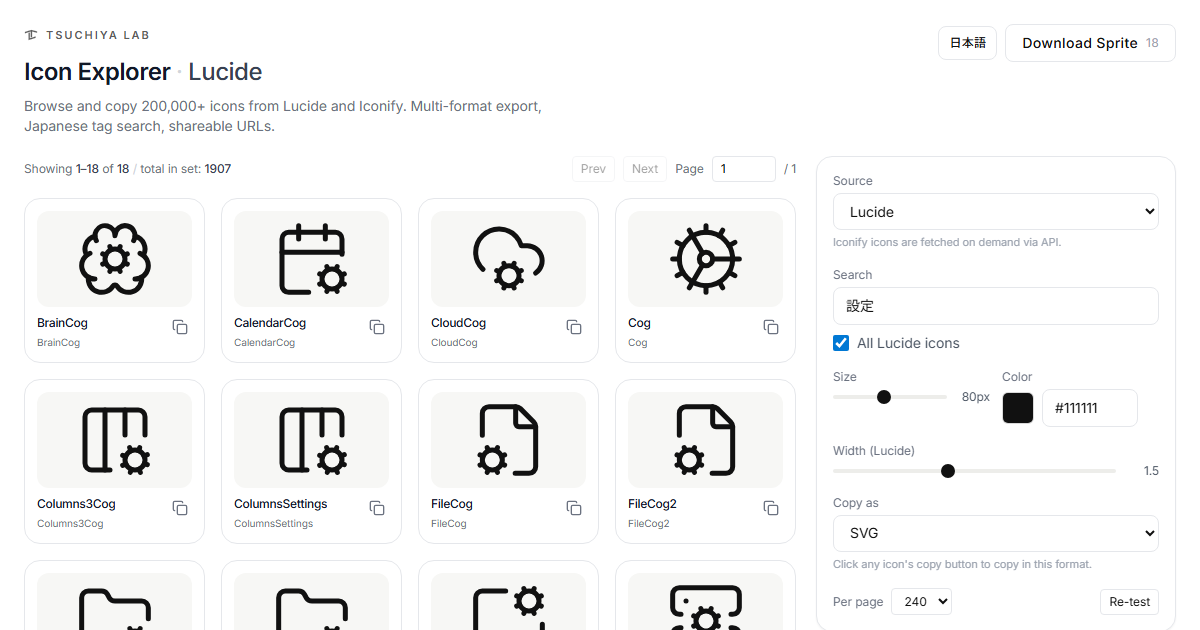
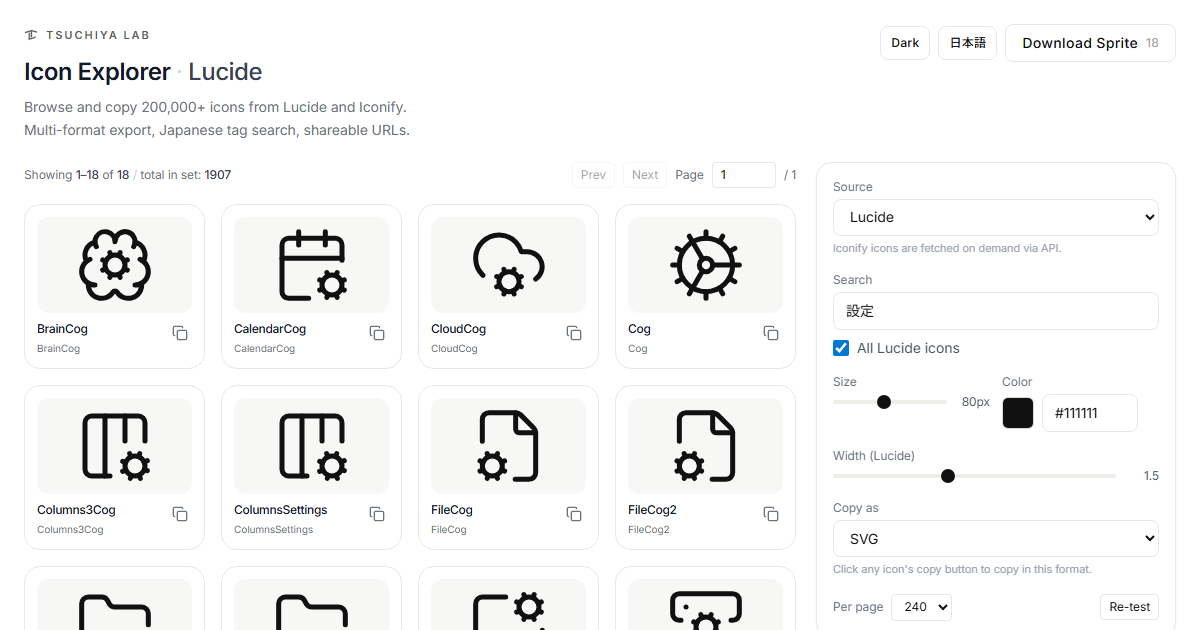
Add dark mode, line-break description, fix URL color default check
Dark mode (sister to bilingual toggle, same UX pattern):
- New [data-theme] attribute drives CSS custom property flip:
  --tl-fg, --tl-bg, --tl-surface, --tl-card, --tl-input, --tl-line, etc.
  All map cleanly between light (#FFFFFF / #111111) and dark
  (#0A0A0A / #F5F5F3) per design.md "inverse section" semantics.
- Tailwind utility class overrides under [data-theme="dark"] redirect
  bg-white, bg-gray-*, border-gray-*, text-gray-* and hover/focus
  variants to theme variables — markup unchanged.
- Theme toggle button in header (next to lang toggle), label shows
  the target theme ("Dark" in light mode, "Light" in dark mode).
  Bilingual: "ダーク"/"ライト" via reused .en/.jp wrappers.
- Persistence: localStorage("icons.theme") + URL ?theme=dark
  (omitted when light = clean default URLs).
- Default icon color auto-flips between #111111 (light) and
  #F5F5F3 (dark) only when state.color matches the previous
  theme's default. Custom user-picked colors persist across toggles.
- TL monogram already used currentColor via mask-image, so it
  inverts automatically — no asset duplication needed.

Description: split into two lines with <br /> between sentences for
editorial pacing per design.md. Same change in both EN and JP.

URL state: writeStateToUrl now compares state.color against the
current theme's default rather than a hardcoded #111111. Prevents
?c=F5F5F3 from showing up in dark-mode URLs when the color is
actually the default for that theme.
[…]

diff --git a/public/index.html b/public/index.html
@@ -1,5 +1,5 @@
 <!DOCTYPE html>
-<html lang="en">
+<html lang="en" data-theme="light">
 <head>
   <meta charset="UTF-8" />
   <meta name="viewport" content="width=device-width, initial-scale=1.0" />
@@ -23,15 +23,79 @@
     @import url('https://fonts.googleapis.com/css2?family=Inter:wght@400;500;600;700&display=swap');
     /* CHANEL × Vercel palette — black-and-white first, with sparing graphite-blue accent.
        Aligned with tsuchiyalab.com design.md (editorial restraint + tech precision). */
-    :root {
+    :root, [data-theme="light"] {
       --tl-fg: #111111;
       --tl-fg-soft: #5C5C5C;
+      --tl-fg-mute: #9C9C9C;
       --tl-line: rgba(17,17,17,0.10);
+      --tl-line-soft: rgba(17,17,17,0.06);
       --tl-bg: #FFFFFF;
       --tl-surface: #F7F7F5;
+      --tl-surface-2: #EFEFEA;
+      --tl-card: #FFFFFF;
+      --tl-input: #FFFFFF;
       --tl-accent: #2E3B4A;        /* graphite-blue, used sparingly */
       --tl-accent-soft: #A9B7C8;   /* silver-blue */
+      --tl-primary-bg: #111111;    /* primary button bg */
+      --tl-primary-fg: #FFFFFF;    /* primary button text */
     }
+    /* Dark theme — inverse of CHANEL editorial.
+       Matches tsuchiyalab.com main LP convention for theme toggle. */
+    [data-theme="dark"] {
+      --tl-fg: #F5F5F3;
+      --tl-fg-soft: #B0B0B0;
+      --tl-fg-mute: #707070;
+      --tl-line: rgba(255,255,255,0.10);
+      --tl-line-soft: rgba(255,255,255,0.06);
+      --tl-bg: #0A0A0A;
+      --tl-surface: #161616;
+      --tl-surface-2: #1F1F1F;
+      --tl-card: #121212;
+      --tl-input: rgba(20,20,20,0.7);
+      --tl-accent: #A9B7C8;
+      --tl-accent-soft: #5B6D82;
+      --tl-primary-bg: #F5F5F3;
+      --tl-primary-fg: #0A0A0A;
+    }
+    /* Map common Tailwind utility classes to theme variables in dark mode.
+       This keeps the markup unchanged while letting CSS variables flow through. */
+    [data-theme="dark"] .bg-white { background-color: var(--tl-card) !important; }
+    [data-theme="dark"] .bg-gray-50 { background-color: var(--tl-surface) !important; }
+    [data-theme="dark"] .bg-gray-100 { background-color: var(--tl-surface-2) !important; }
+    [data-theme="dark"] .bg-gray-900 { background-color: var(--tl-primary-bg) !important; color: var(--tl-primary-fg) !important; }
+    [data-theme="dark"] .hover\:bg-gray-50:hover { background-color: rgba(255,255,255,0.06) !important; }
+    [data-theme="dark"] .hover\:bg-gray-100:hover { background-color: rgba(255,255,255,0.10) !important; }
+    [data-theme="dark"] .hover\:bg-black:hover { background-color: #ffffff !important; color: #000000 !important; }
+    [data-theme="dark"] .border-gray-100 { border-color: var(--tl-line-soft) !important; }
+    [data-theme="dark"] .border-gray-200 { border-color: var(--tl-line) !important; }
+    [data-theme="dark"] .border-gray-300 { border-color: rgba(255,255,255,0.18) !important; }
+    [data-theme="dark"] .text-gray-900 { color: var(--tl-fg) !important; }
+    [data-theme="dark"] .text-gray-800 { color: #D8D8D8 !important; }
+    [data-theme="dark"] .text-gray-700 { color: #C0C0C0 !important; }
+    [data-theme="dark"] .text-gray-600 { color: #A8A8A8 !important; }
+    [data-theme="dark"] .text-gray-500 { color: var(--tl-fg-soft) !important; }
+    [data-theme="dark"] .text-gray-400 { color: var(--tl-fg-mute) !important; }
+    [data-theme="dark"] .text-gray-300 { color: #4A4A4A !important; }
+    [data-theme="dark"] .hover\:text-gray-900:hover { color: var(--tl-fg) !important; }
+    [data-theme="dark"] .hover\:text-gray-700:hover { color: #C8C8C8 !important; }
+    [data-theme="dark"] .hover\:border-gray-900:hover { border-color: var(--tl-fg) !important; }
+    [data-theme="dark"] .focus\:ring-gray-900:focus { --tw-ring-color: var(--tl-fg) !important; }
+    [data-theme="dark"] .focus\:border-gray-900:focus { border-color: var(--tl-fg) !important; }
+    [data-theme="dark"] input[type="text"]:not([type="color"]),
+    [data-theme="dark"] input[type="number"],
+    [data-theme="dark"] select,
+    [data-theme="dark"] textarea {
+      background-color: var(--tl-input) !important;
+      color: var(--tl-fg);
+    }
+    [data-theme="dark"] input::placeholder { color: var(--tl-fg-mute) !important; }
+    [data-theme="dark"] input[type="range"]::-webkit-slider-runnable-track { background: rgba(255,255,255,0.12); }
+    [data-theme="dark"] input[type="checkbox"] { accent-color: var(--tl-fg); }
+    [data-theme="dark"] .modal-backdrop { background: rgba(0, 0, 0, 0.65); }
+    [data-theme="dark"] .icon-card-bg { background: var(--tl-surface) !important; }
+    [data-theme="dark"] .group:hover .icon-card-bg { background: var(--tl-surface-2) !important; }
+    [data-theme="dark"] .text-emerald-700 { color: #10B981 !important; }
+    [data-theme="dark"] .text-rose-700 { color: #F87171 !important; }
     body {
       font-family: 'Inter', -apple-system, "Helvetica Neue", sans-serif;
       background: var(--tl-bg);
@@ -60,6 +124,9 @@
        Following tsuchiyalab.com LP convention. */
     [lang="en"] .jp { display: none !important; }
     [lang="ja"] .en { display: none !important; }
+    /* Theme-conditional spans — used in theme toggle button label */
+    [data-theme="light"] .theme-dark-only { display: none !important; }
+    [data-theme="dark"] .theme-light-only { display: none !important; }
     /* Icon mark (TL monogram) — uses mask-image so currentColor controls fill.
        This way the mark inverts cleanly when the page theme switches between
        light and dark, matching the wordmark text. */
@@ -88,13 +155,17 @@
           <span id="source-badge" class="text-gray-700 font-medium">Lucide</span>
           <span id="collection-badge" class="text-gray-400 font-normal"></span>
         </h1>
-        <p class="text-sm text-gray-500 mt-2 max-w-xl">
-          <span class="en">Browse and copy 200,000+ icons from Lucide and Iconify. Multi-format export, Japanese tag search, shareable URLs.</span>
-          <span class="jp">Lucide と Iconify から20万件以上のアイコンを検索・コピー。多形式書き出し・日本語タグ検索・URL共有に対応。</span>
+        <p class="text-sm text-gray-500 mt-2 max-w-xl leading-relaxed">
+          <span class="en">Browse and copy 200,000+ icons from Lucide and Iconify.<br />Multi-format export, Japanese tag search, shareable URLs.</span>
+          <span class="jp">Lucide と Iconify から20万件以上のアイコンを検索・コピー。<br />多形式書き出し・日本語タグ検索・URL共有に対応。</span>
         </p>
         <p id="status-line" class="text-xs text-gray-500 mt-2 hidden"></p>
       </div>
       <div class="shrink-0 flex items-center gap-2">
+        <button id="theme-toggle" class="text-xs px-2.5 py-2 rounded-lg border border-gray-200 bg-white hover:border-gray-900 transition-colors font-medium tracking-wide" aria-label="Toggle theme">
+          <span class="theme-light-only"><span class="en">Dark</span><span class="jp">ダーク</span></span>
+          <span class="theme-dark-only"><span class="en">Light</span><span class="jp">ライト</span></span>
+        </button>
         <button id="lang-toggle" class="text-xs px-2.5 py-2 rounded-lg border border-gray-200 bg-white hover:border-gray-900 transition-colors font-medium tracking-wide" aria-label="Toggle language">
           <span class="en">日本語</span>
           <span class="jp">English</span>
@@ -410,6 +481,31 @@
       const dlBtn = document.getElementById("download-all-btn");
       if (dlBtn) dlBtn.title = next === "ja" ? "現在のフィルタ条件でスプライトをDL" : "Download a sprite of the current filtered set";
     }
+
+    // ---------- Theme (light/dark) ----------
+    // Theme toggle controlled via [data-theme] on html. CSS variables flip
+    // automatically (see :root vs [data-theme="dark"] above). Default icon
+    // color also auto-flips ONLY when it is still the previous theme's
+    // default (so user-customized colors persist across theme toggles).
+    const THEME_DEFAULT_COLOR = { light: "#111111", dark: "#F5F5F3" };
+    function currentTheme() {
+      return document.documentElement.dataset.theme === "dark" ? "dark" : "light";
+    }
+    function applyTheme(theme) {
+      const next = theme === "dark" ? "dark" : "light";
+      const prev = currentTheme();
+      document.documentElement.dataset.theme = next;
+      try { localStorage.setItem("icons.theme", next); } catch (_) {}
+      // Auto-flip default icon color when toggling, preserving custom colors.
+      const prevDefault = THEME_DEFAULT_COLOR[prev].toUpperCase();
+      if (state && state.color && state.color.toUpperCase() === prevDefault && prev !== next) {
+        state.color = THEME_DEFAULT_COLOR[next];
+        const cp = document.getElementById("color-picker");
+        const ct = document.getElementById("color-text");
+        if (cp) cp.value = state.color;
+        if (ct) ct.value = state.color;
+      }
+    }
     function isJapanese(s) {
       return /[぀-ヿ㐀-鿿ｦ-ﾟ]/.test(s);
     }
@@ -721,7 +817,10 @@
       if (urlSyncSuspended) return;
       const p = new URLSearchParams();
       if (state.search) p.set("q", state.search);
-      if (state.color && state.color !== "#111111") p.set("c", state.color.replace(/^#/, ""));
+      // Color is omitted from URL when it matches the current theme's default
+      // (so URLs stay clean across theme toggles).
+      const themeDefault = THEME_DEFAULT_COLOR[currentTheme()].toUpperCase();
+      if (state.color && state.color.toUpperCase() !== themeDefault) p.set("c", state.color.replace(/^#/, ""));
       if (state.size !== 64) p.set("s", String(state.size));
       if (Math.abs(state.width - 1.5) > 1e-3) p.set("w", state.width.toFixed(1));
       if (state.source !== "lucide") p.set("src", state.source);
@@ -733,6 +832,7 @@
       if (state.copyFormat && state.copyFormat !== "svg") p.set("f", state.copyFormat);
       if (state.source === "lucide" && !state.useAllLucide) p.set("all", "0");
       if (currentLang() === "ja") p.set("lang", "ja");
+      if (currentTheme() === "dark") p.set("theme", "dark");
 
       const qs = p.toString();
       const newUrl = qs ? `${location.pathname}?${qs}` : location.pathname;
@@ -787,6 +887,25 @@
         } catch (_) {}
       }
       if (langPick) applyLanguage(langPick);
+
+      // Theme: URL > localStorage > default "light"
+      let themePick = null;
+      if (get("theme") === "dark" || get("theme") === "light") themePick = get("theme");
+      else {
+        try {
+          const saved = localStorage.getItem("icons.theme");
+          if (saved === "dark" || saved === "light") themePick = saved;
+        } catch (_) {}
+      }
+      if (themePick) applyTheme(themePick);
+
+      // After theme is applied, if URL specifies neither theme nor color but
+      // resolved theme is dark, default color should be the dark default.
+      // (applyTheme already handles the flip from prev=light → next=dark when
+      // state.color is the previous default, so this only matters for first init.)
+      if (themePick === "dark" && !get("c") && state.color === "#111111") {
+        state.color = "#F5F5F3";
+      }
     }
 
     function applyStateToControls() {
@@ -1364,6 +1483,17 @@
         const next = currentLang() === "ja" ? "en" : "ja";
         applyLanguage(next);
         writeStateToUrl();
+      });
+    }
+
+    // Theme toggle (light/dark)
+    const themeToggleBtn = document.getElementById("theme-toggle");
+    if (themeToggleBtn) {
+      themeToggleBtn.addEventListener("click", () => {
+        const next = currentTheme() === "dark" ? "light" : "dark";
+        applyTheme(next);
+        // Re-render so icon previews pick up the (possibly auto-flipped) color
+        render();
       });
     }
 